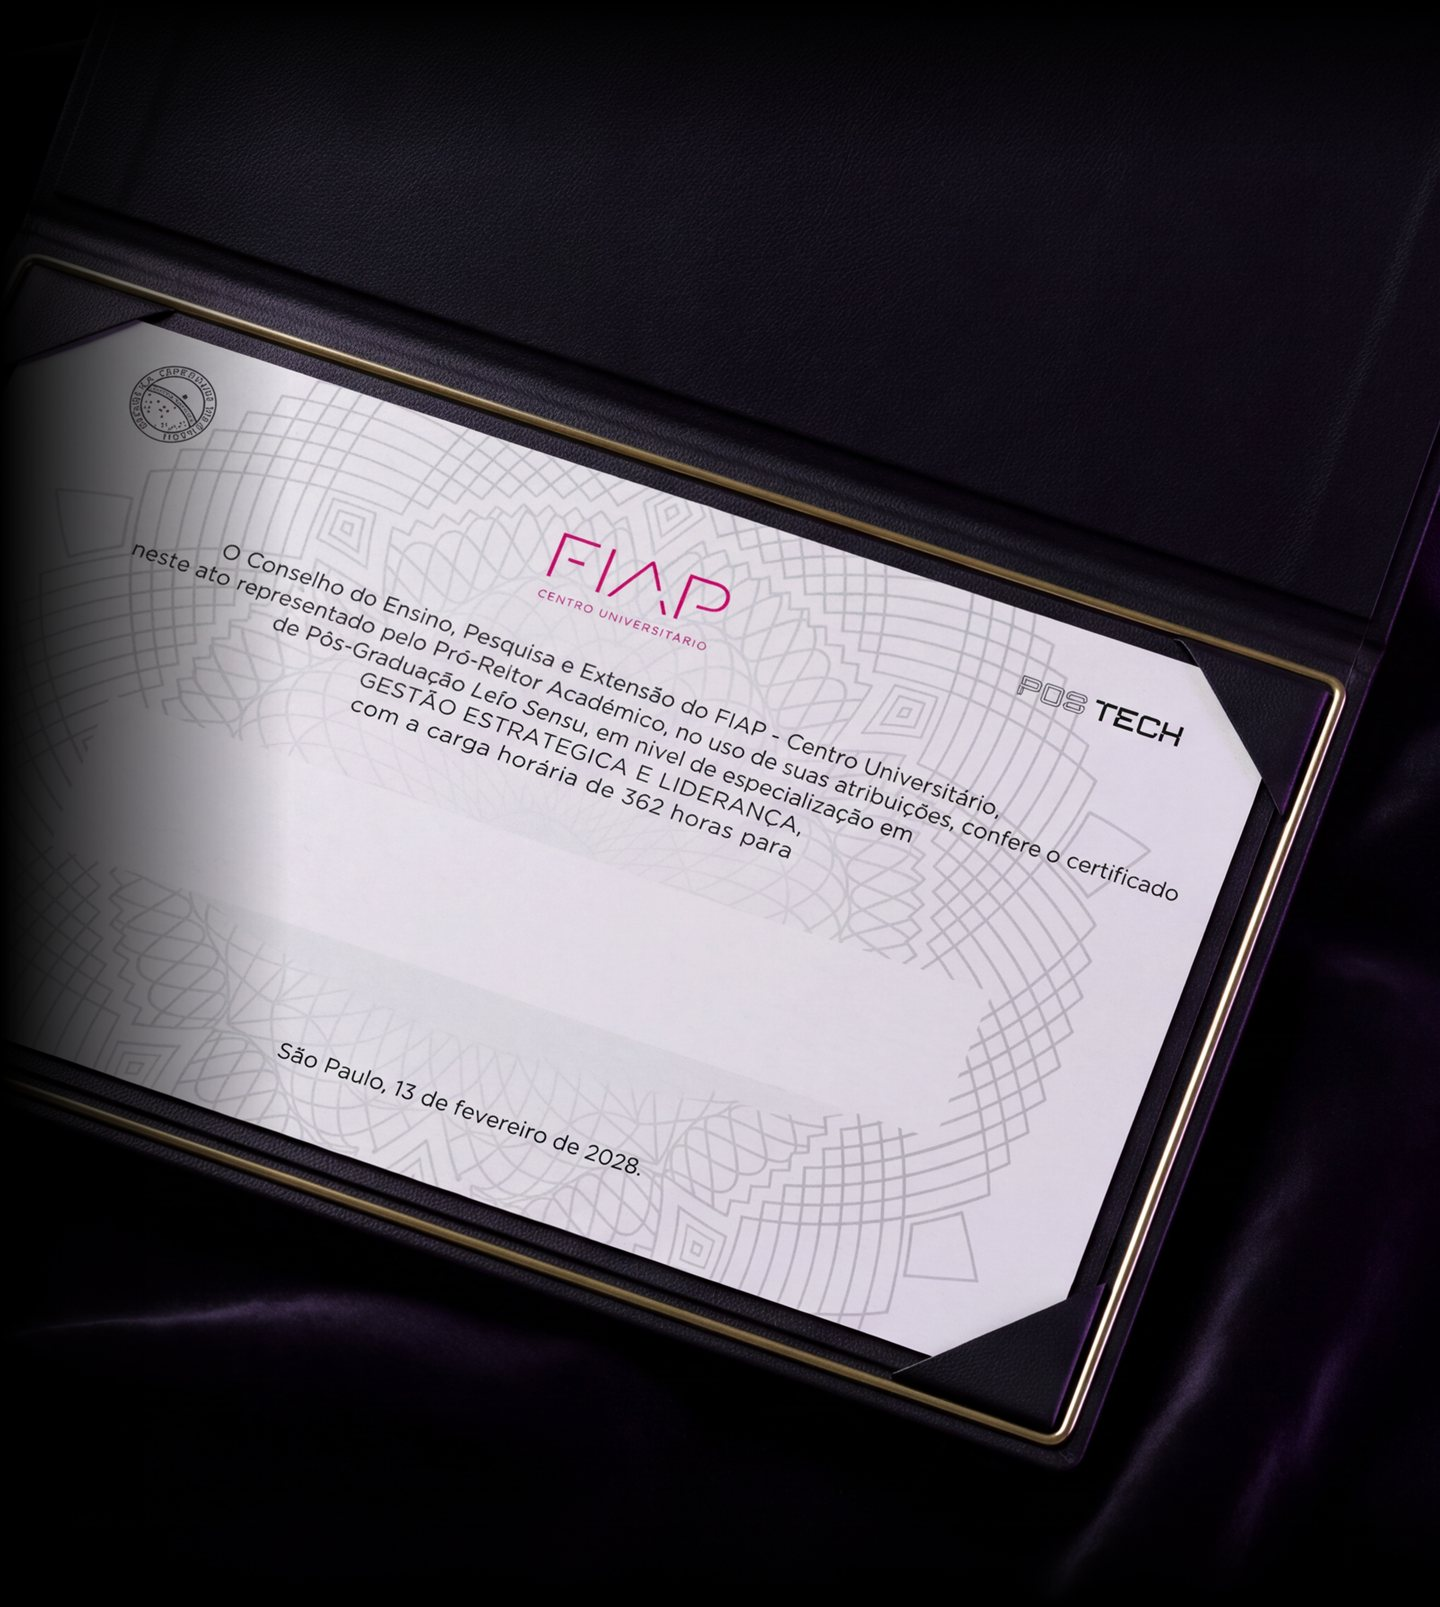
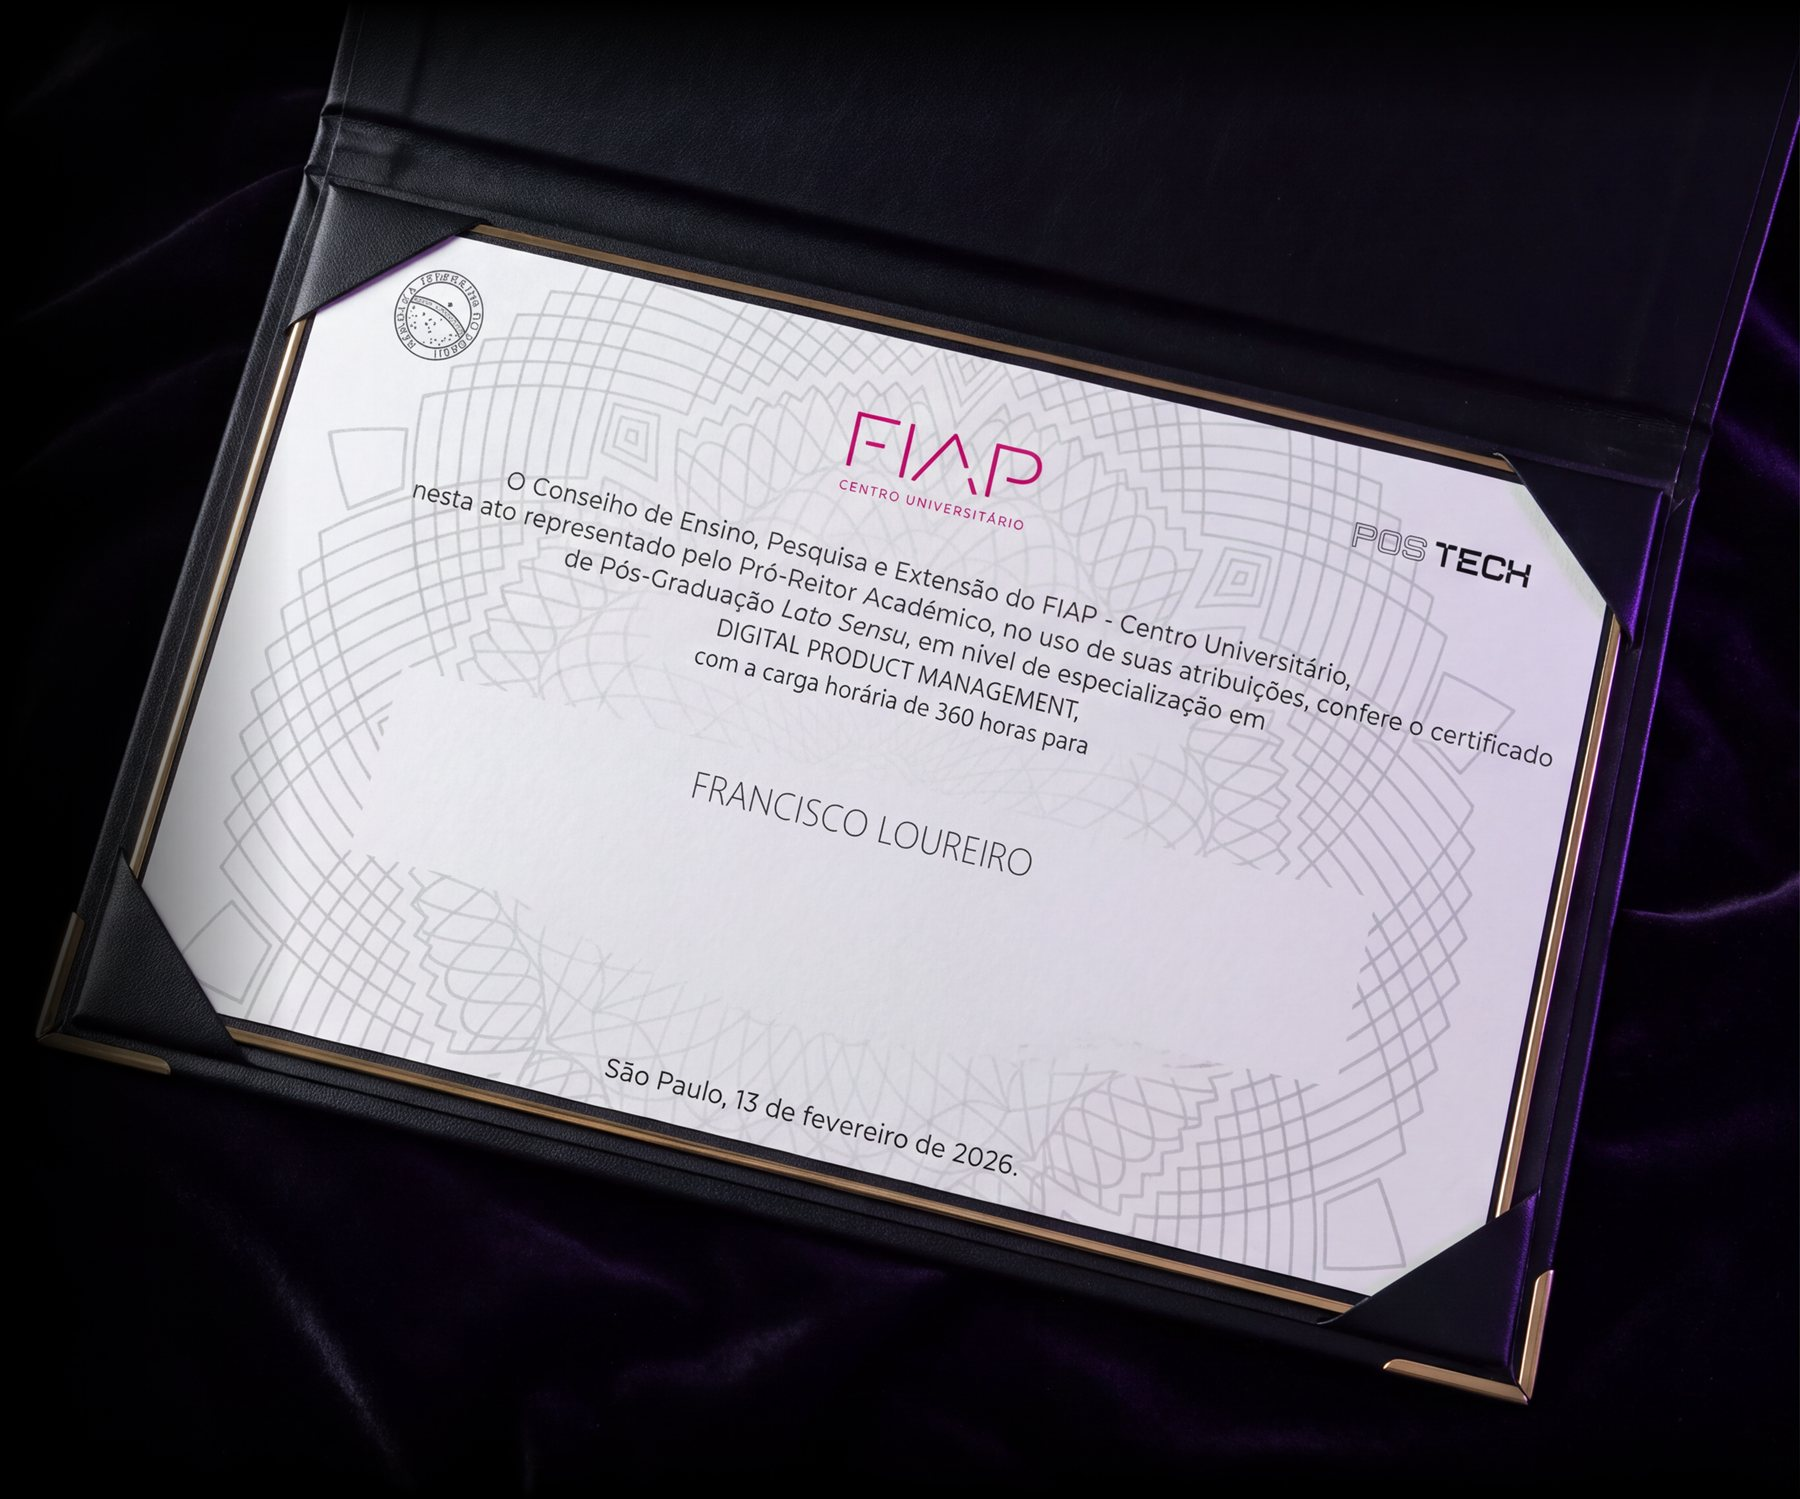
Pos Tech: certificado com Francisco Loureiro e Digital Product Management

diff --git a/pos-tech.html b/pos-tech.html
@@ -21,7 +21,7 @@
 <link rel="stylesheet" href="assets/css/hero-card.css?v=3">
 <link rel="stylesheet" href="assets/css/cards-formacao.css?v=12">
 <link rel="stylesheet" href="assets/css/certificado.css?v=5">
-<link rel="stylesheet" href="assets/css/pos.css?v=11">
+<link rel="stylesheet" href="assets/css/pos.css?v=12">
 <script type="application/ld+json">
 {"@context":"https://schema.org","@graph":[
  {"@type":"BreadcrumbList","itemListElement":[
@@ -192,7 +192,7 @@
 
 <!-- 10 · CERTIFICADO MEC -->
 <section class="cx-sec on-dark" aria-labelledby="ce-t">
-  <div class="cx-hero cx-pos" data-nota="Mockup gerado no Magnific a partir de um certificado real da Pós Tech (FIAP), com o nome da aluna removido.">
+  <div class="cx-hero cx-pos" data-nota="Mockup gerado no Magnific a partir de um certificado real da Pós Tech (FIAP), com o nome da aluna trocado por um nome de exemplo (Francisco Loureiro) e o curso por Digital Product Management.">
     <div class="wrap">
       <div class="cx-copy">
         <p class="kicker"><span class="n">08</span> Certificação</p>

diff --git a/assets/css/pos.css b/assets/css/pos.css
@@ -258,5 +258,5 @@
 /* fundo do card do topo: degradê roxo → preto */
 .p-main{background:linear-gradient(135deg,#000 0%,#0B0713 38%,#2a1856 72%,#6645B1 100%)}
 .p-main .aurora{opacity:.45}
-@media (min-width:861px){ .cx-hero.cx-pos::before{background-image:url('../img/certificado-pos-veludo-crop.jpg')} }
-@media (max-width:860px){ .cx-hero.cx-pos::before{background-image:url('../img/certificado-pos-veludo-crop.jpg')} }
+@media (min-width:861px){ .cx-hero.cx-pos::before{background-image:url('../img/certificado-pos-veludo-crop.jpg?v=2')} }
+@media (max-width:860px){ .cx-hero.cx-pos::before{background-image:url('../img/certificado-pos-veludo-crop.jpg?v=2')} }
